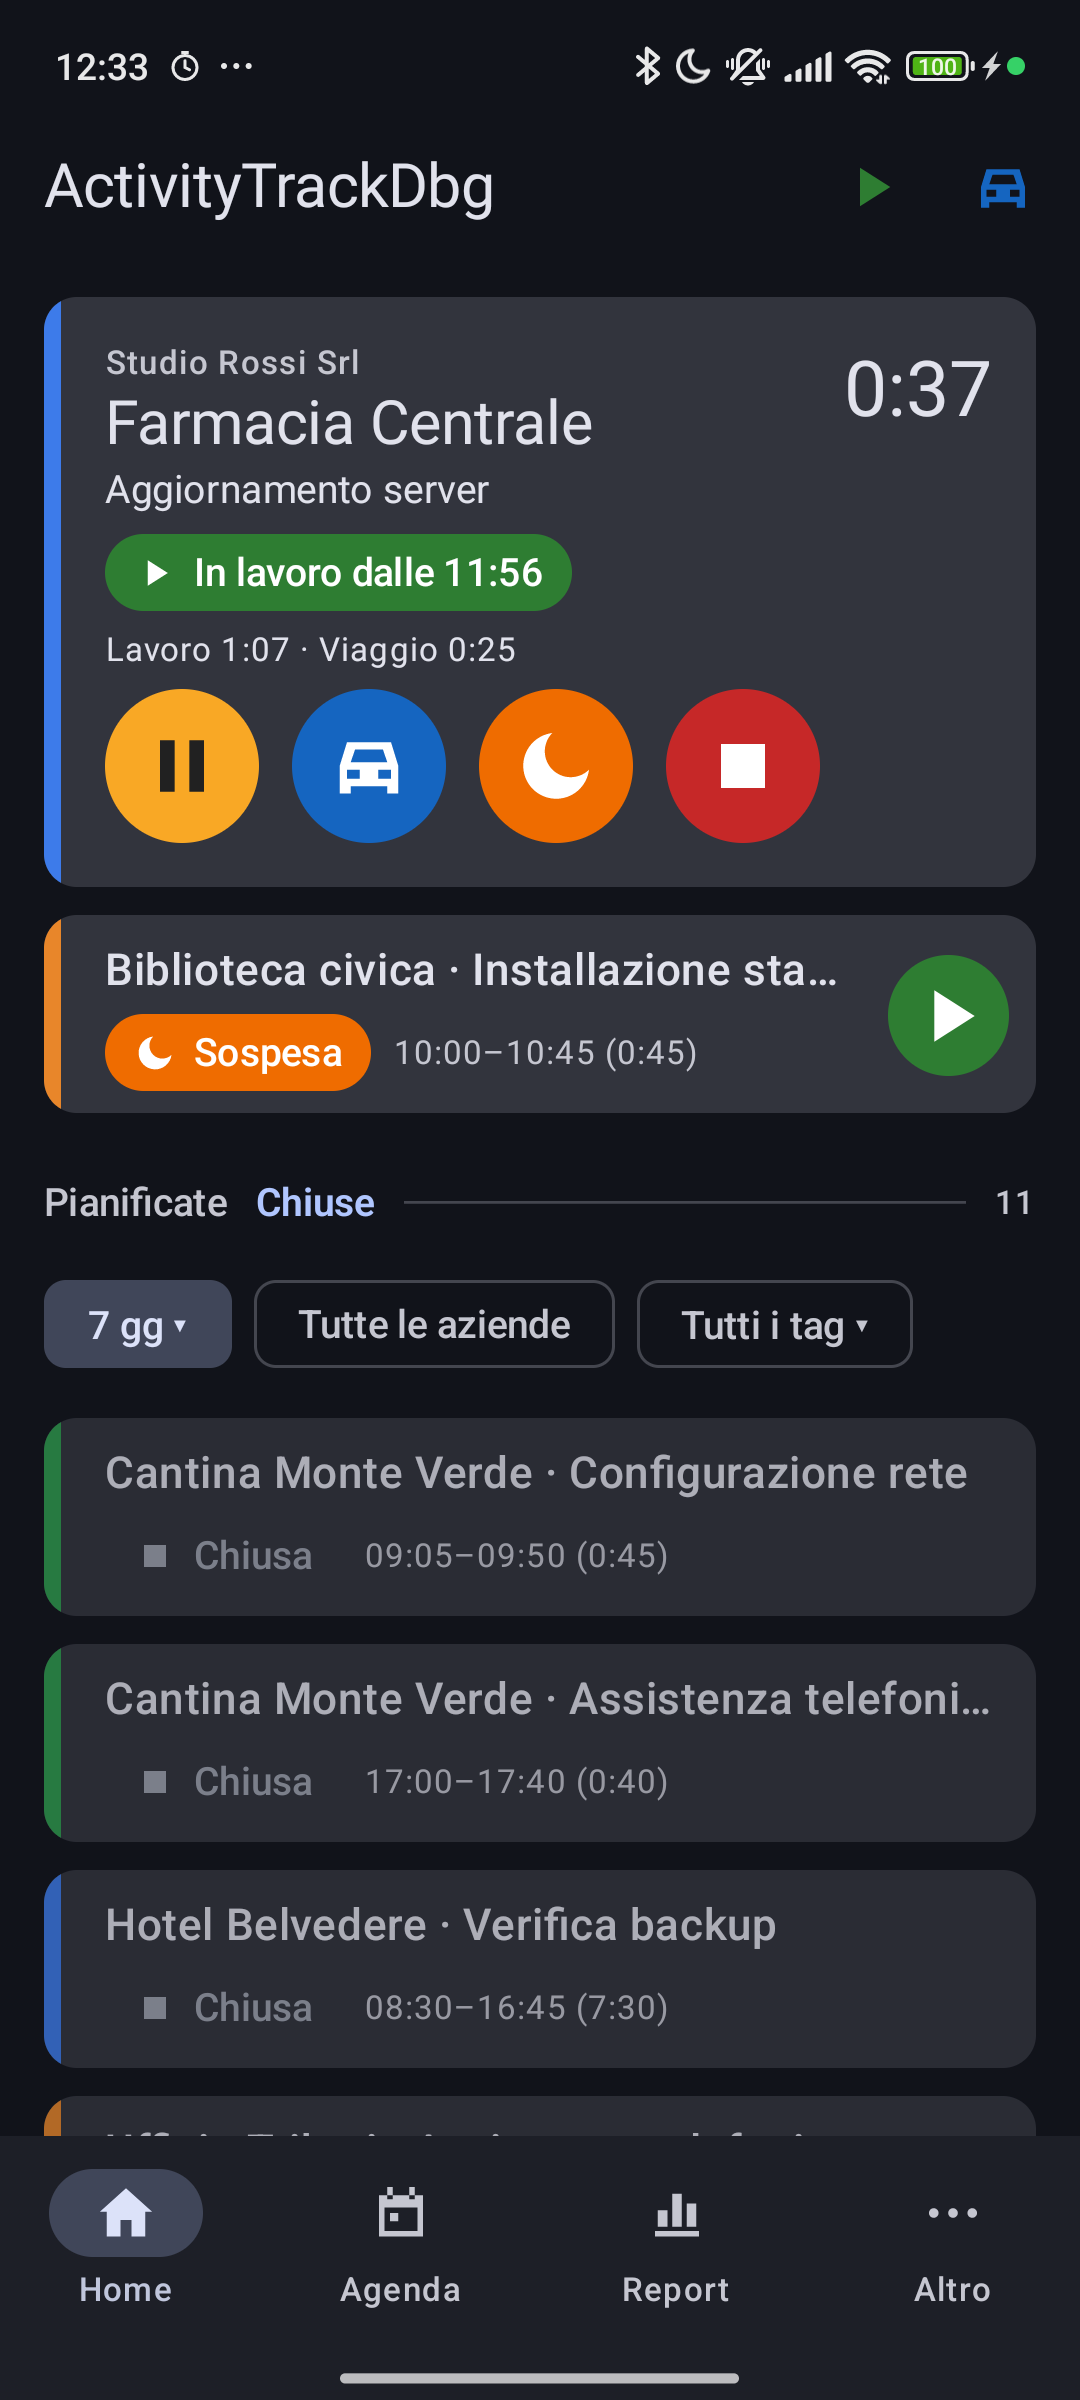
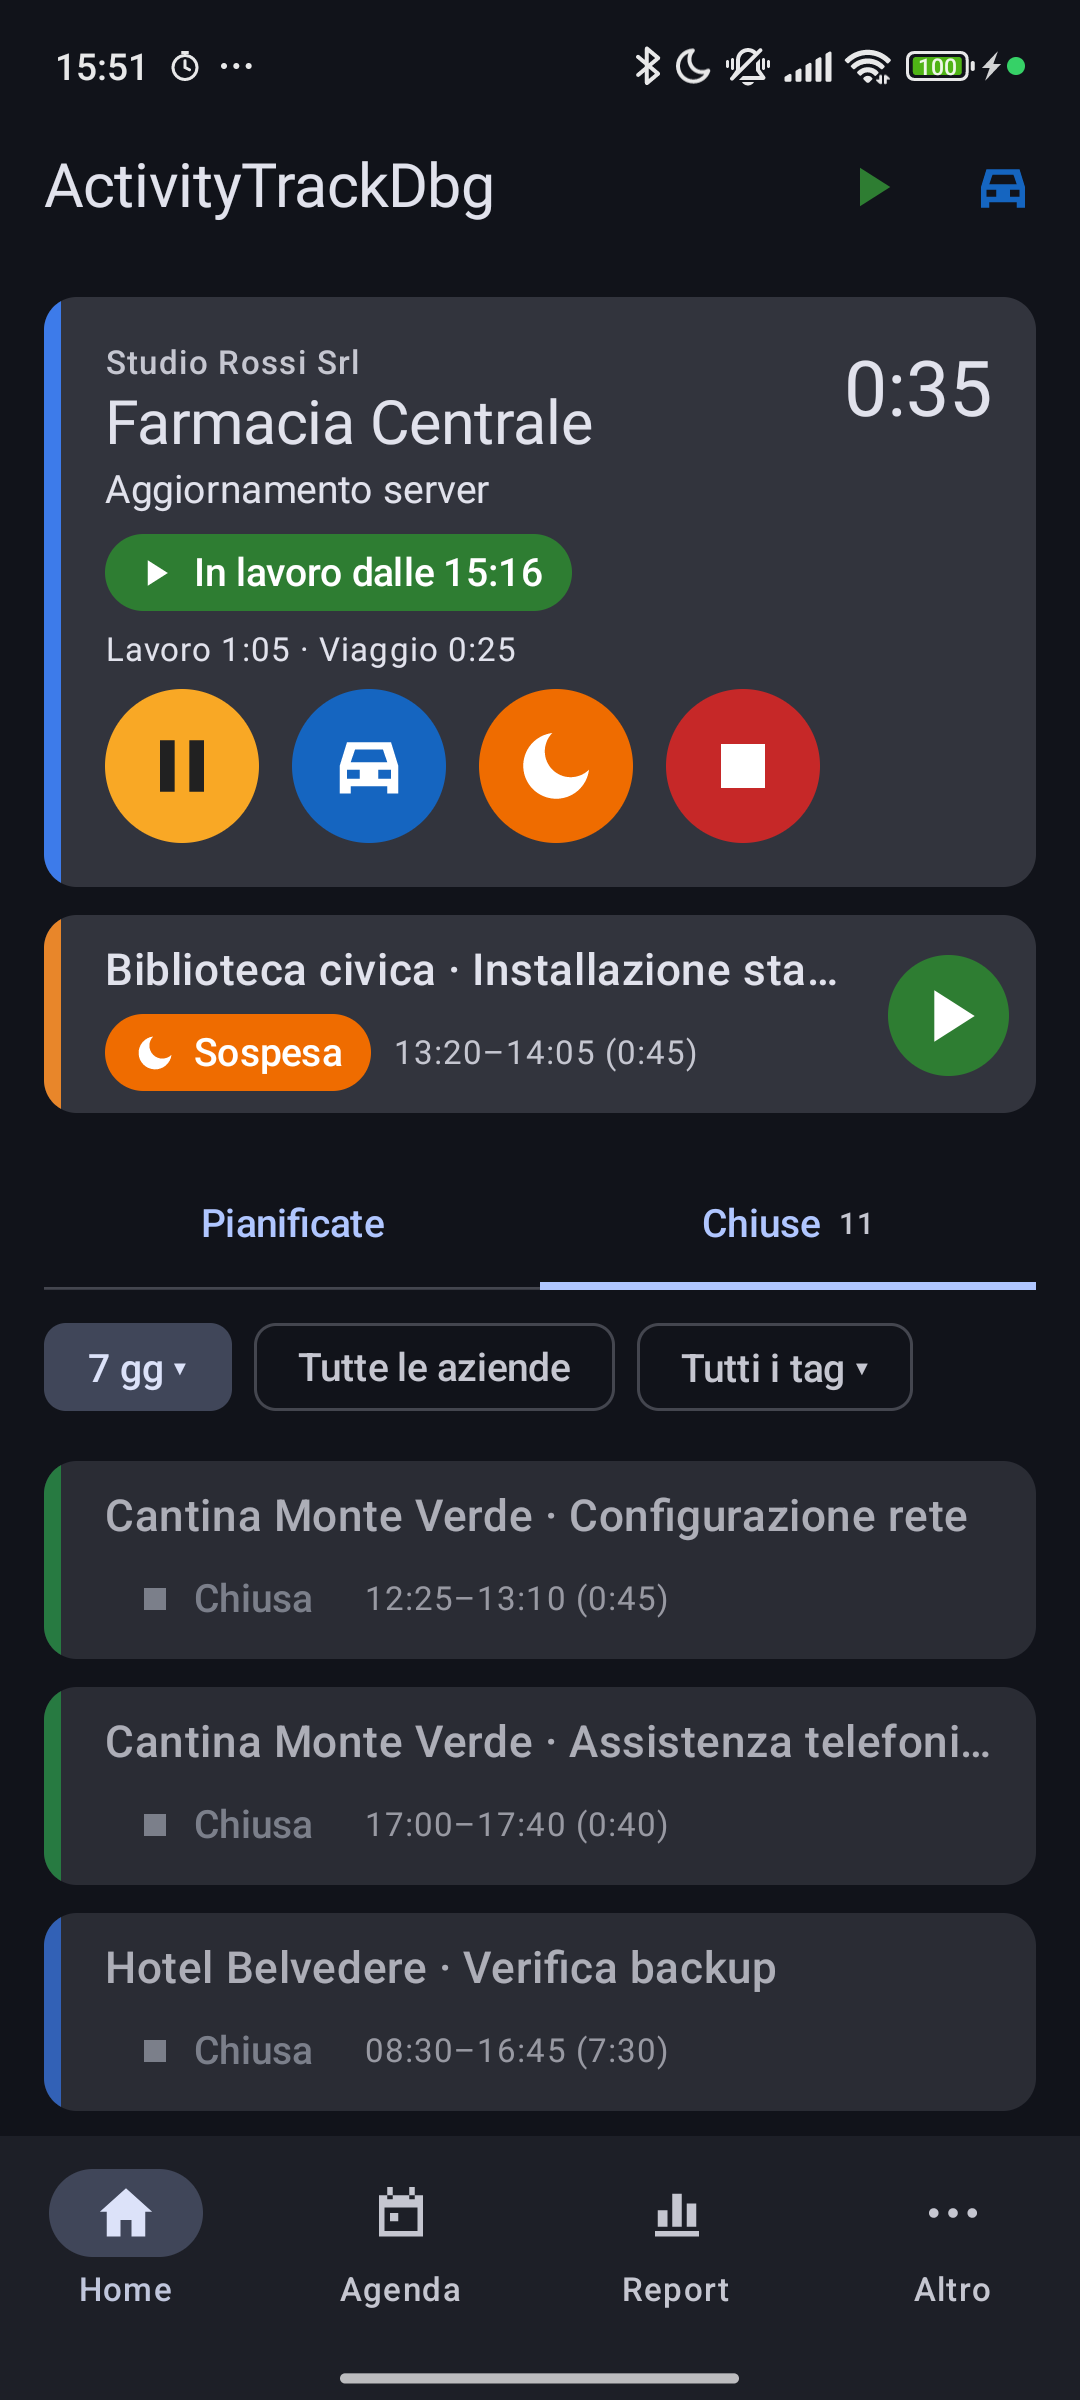
Release 0.7.5: manual with the due alignment and the browser-like tabs
Manual 0.7.5 (it/en): the Home chapter shows the Material tabs of #72
(browser-like since 0.7.5, tap or swipe as before); the to-dos chapter
documents the alignment question of #71 — saving a plan after the due
date offers "Align the due date" (copies the planned day) or "Keep it".
Home screenshots retaken for both languages with the new header.

Assisted-by: GLM-5.3

Changed region(s): [[0.0306, 0.5, 0.9778, 0.9062], [0.4278, 0.2188, 0.4889, 0.25], [0.8861, 0.1562, 0.9167, 0.1875]]

diff --git a/docs/manual/it/manual.md b/docs/manual/it/manual.md
@@ -1,4 +1,4 @@
-Versione 0.7.4 (ottobre 2026). Segnalare ogni differenza tra questo manuale
+Versione 0.7.5 (ottobre 2026). Segnalare ogni differenza tra questo manuale
 e l'app. La *Guida rapida* riassume in poche pagine l'uso quotidiano; questo
 manuale descrive tutto: la **Parte I** l'uso, la **Parte II** il riferimento
 (impostazioni, entità, stati, flussi).
@@ -148,8 +148,9 @@ Da una scheda diversa dalla Home, il tasto Indietro torna alla Home.
   (es. "11:00–11:45 (0:45)"), e un pulsante per riprenderla (o metterla in
   pausa, o completarla). Toccandolo, l'attività passa nel
   riquadro grande.
-- In basso le due **schede** (0.7.4): **Pianificate** e **Chiuse**. Si
-  cambia toccando il titolo o trascinando orizzontalmente l'intestazione
+- In basso le due **schede** (0.7.4; tab in stile browser dalla 0.7.5):
+  **Pianificate** e **Chiuse**. Si
+  cambia toccando la scheda o trascinando orizzontalmente l'intestazione
   (i gesti sui riquadri restano); la scheda scelta è ricordata al
   riavvio.
 - **Pianificate**: le voci da fare pianificate o in scadenza nel periodo
@@ -509,7 +510,9 @@ Attività da fare, importate da un gestionale o create a mano ("Altro" →
 
 Stati: **aperta** (senza pianificazione) → **pianificata** (una data) →
 **fatta**. La pianificazione è separata dalla scadenza: ripianificare non
-cambia la scadenza del gestionale.
+cambia la scadenza del gestionale; se però si salva una pianificazione
+successiva alla scadenza, l'app chiede se allinearle (0.7.5): "Allinea
+la scadenza" copia il giorno pianificato, "Mantieni" lascia tutto com'è.
 - **Solo la data**: la voce vale per tutto il giorno; in Agenda sta nella
   fascia sopra la griglia, nel calendario è un evento di tutto il giorno,
   non ha promemoria ed è "in ritardo" dal giorno dopo.

diff --git a/docs/manual/en/manual.md b/docs/manual/en/manual.md
@@ -1,4 +1,4 @@
-Version 0.7.4 (October 2026). Please report any difference between this
+Version 0.7.5 (October 2026). Please report any difference between this
 manual and the app. The *Quick start* sums up daily use in a few pages; this
 manual covers everything: **Part I** how to use the app, **Part II** the
 reference (settings, entities, states, flows).
@@ -147,8 +147,9 @@ From a tab other than Home, Back returns to Home.
   to complete): state and times as "from–to (length)" (e.g.
   "11:00–11:45 (0:45)"), and a button to resume it (or pause it, or complete
   it). Tapping it brings the activity to the big card.
-- At the bottom the two **tabs** (0.7.4): **Planned** and **Closed**. Switch
-  by tapping the title or dragging the header horizontally (the card
+- At the bottom the two **tabs** (0.7.4; browser-like tabs since 0.7.5):
+  **Planned** and **Closed**. Switch
+  by tapping the tab or dragging the header horizontally (the card
   gestures stay); the chosen tab is remembered across restarts.
 - **Planned**: the to-dos planned or due within the chosen period, the
   overdue ones first (their time in red); under a **"No date"** separator
@@ -498,7 +499,9 @@ notes, references (one per line).
 
 States: **open** (no plan) → **planned** (a date) → **done**. The plan is
 separate from the due date: re-planning does not change the management
-system's due date.
+system's due date; but saving a plan after the due date asks whether to
+align them (0.7.5): "Align the due date" copies the planned day,
+"Keep it" leaves both as they are.
 - **Date only**: the to-do counts for the whole day; in the Agenda it sits in
   the strip above the grid, in the calendar it is an all-day event, it has no
   reminder and is "overdue" from the next day.

diff --git a/docs/manual/it/connectors/antares.md b/docs/manual/it/connectors/antares.md
@@ -1,5 +1,5 @@
 <!-- title: Integrazione Antares (Saidea) -->
-Versione 0.7.4 · guida al collegamento tra ActivityTrack e il gestionale
+Versione 0.7.5 · guida al collegamento tra ActivityTrack e il gestionale
 Antares di Saidea. L'uso generale dell'app è nel *Manuale*.
 
 ## 1. Cosa fa

diff --git a/docs/manual/en/connectors/antares.md b/docs/manual/en/connectors/antares.md
@@ -1,5 +1,5 @@
 <!-- title: Antares (Saidea) integration -->
-Version 0.7.4 · how to connect ActivityTrack with Saidea's Antares
+Version 0.7.5 · how to connect ActivityTrack with Saidea's Antares
 management system. General use of the app is in the *User manual*.
 
 ## 1. What it does

diff --git a/docs/manual/en/quickstart.md b/docs/manual/en/quickstart.md
@@ -1,4 +1,4 @@
-Version 0.7.4 · for everyday use; the *User manual* explains everything else.
+Version 0.7.5 · for everyday use; the *User manual* explains everything else.
 
 ## 1. First time
 1. Install `ActivityTrack-<version>.apk` from the GitHub *Releases*.

diff --git a/docs/manual/it/quickstart.md b/docs/manual/it/quickstart.md
@@ -1,4 +1,4 @@
-Versione 0.7.4 · per l'uso di tutti i giorni; il *Manuale* spiega tutto il
+Versione 0.7.5 · per l'uso di tutti i giorni; il *Manuale* spiega tutto il
 resto.
 
 ## 1. Prima volta
